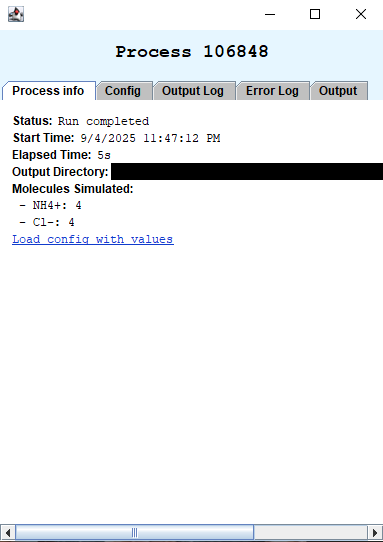
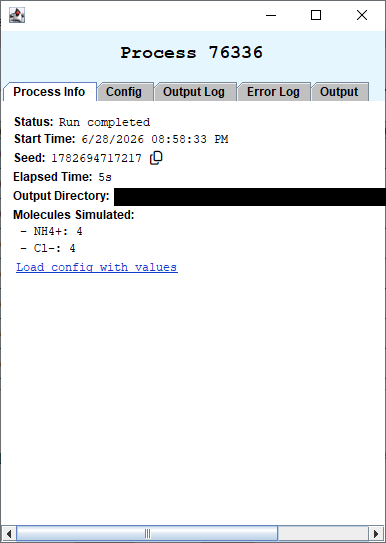
Update README.md

diff --git a/README.md b/README.md
@@ -11,7 +11,7 @@ It interfaces directly with a packaged version of TransRot, which is internally 
 ### OS Support
 VTR supports execution on all three major operating systems (Windows, macOS, Linux) and TransRot has been tested on:
 - *Windows*: `Windows 10`, `Windows 11`
-- *MacOS*: `El Catalina`, `Monterey`, `Ventura`, `Sequoia`
+- *MacOS*: `El Catalina`, `Monterey`, `Ventura`, `Sequoia`, `Tahoe`
 - *Linux*: `Ubuntu`
 
 ### Prerequisites
@@ -218,6 +218,7 @@ When the process is terminated either automatically or manually, an `Output` tab
 The `Process Info` tab includes more detailed information about a process, including:
 - **Status** - The current status of the process, as defined [earlier](#status). Status is updated in real time.
 - **Start Time** - The formatted timestamp when the process was initiated.
+- **Seed** - The long value used for seeding the random generation for this process. If defined by the user, this will match user seed input. The seed is also accompanied by a copy button, which will copy the seed to the user's clipboard.
 - **Elapsed Time** - A live timer of the process's runtime.
 - **Output Directory** - A link to the output directory of the specific process. Clicking this link opens said directory in the OS-native file viewer.
 - **Molecules Simulated** - Contains the [Molecule Counts](#molecule-counts) used for this process's TransRot calculation.
